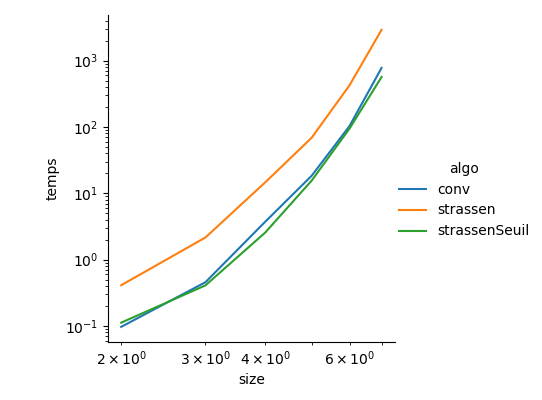
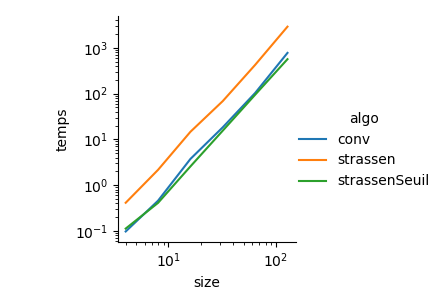
test puissance

diff --git a/TP1-A23/analyse.py b/TP1-A23/analyse.py
@@ -2,17 +2,18 @@ import pandas as pd
 import matplotlib.pyplot as plt
 import seaborn as sns
 
-# df = pd.read_csv('results.csv').groupby(['algo','size']).mean().reset_index()
-# g = sns.FacetGrid(df, hue='algo', size=4, aspect=1)
-# g = g.map(plt.plot, 'size', 'temps')
-# g.set(xscale='log')
-# g.set(yscale='log')
-# g.add_legend()
-# plt.savefig('test_puissance')
-
-
 df = pd.read_csv('results.csv').groupby(['algo','size']).mean().reset_index()
-df['rapport'] = df['temps']/df['size']**3
-g2 = sns.lineplot(df, x="size", y="rapport", hue='algo', size=4, aspect=1)
-g2.add_legend()
-plt.savefig('test_rapport')
+df['size'] = 2**df['size']
+g = sns.FacetGrid(df, hue='algo',  aspect=1)
+g = g.map(plt.plot, 'size', 'temps')
+g.set(xscale='log')
+g.set(yscale='log')
+g.add_legend()
+plt.savefig('test_puissance')
+
+
+# df = pd.read_csv('results.csv').groupby(['algo','size']).mean().reset_index()
+# df['rapport'] = df['temps']/df['size']**3
+# g2 = sns.lineplot(df, x="size", y="rapport", hue='algo', size=4, aspect=1)
+# g2.add_legend()
+# plt.savefig('test_rapport')
